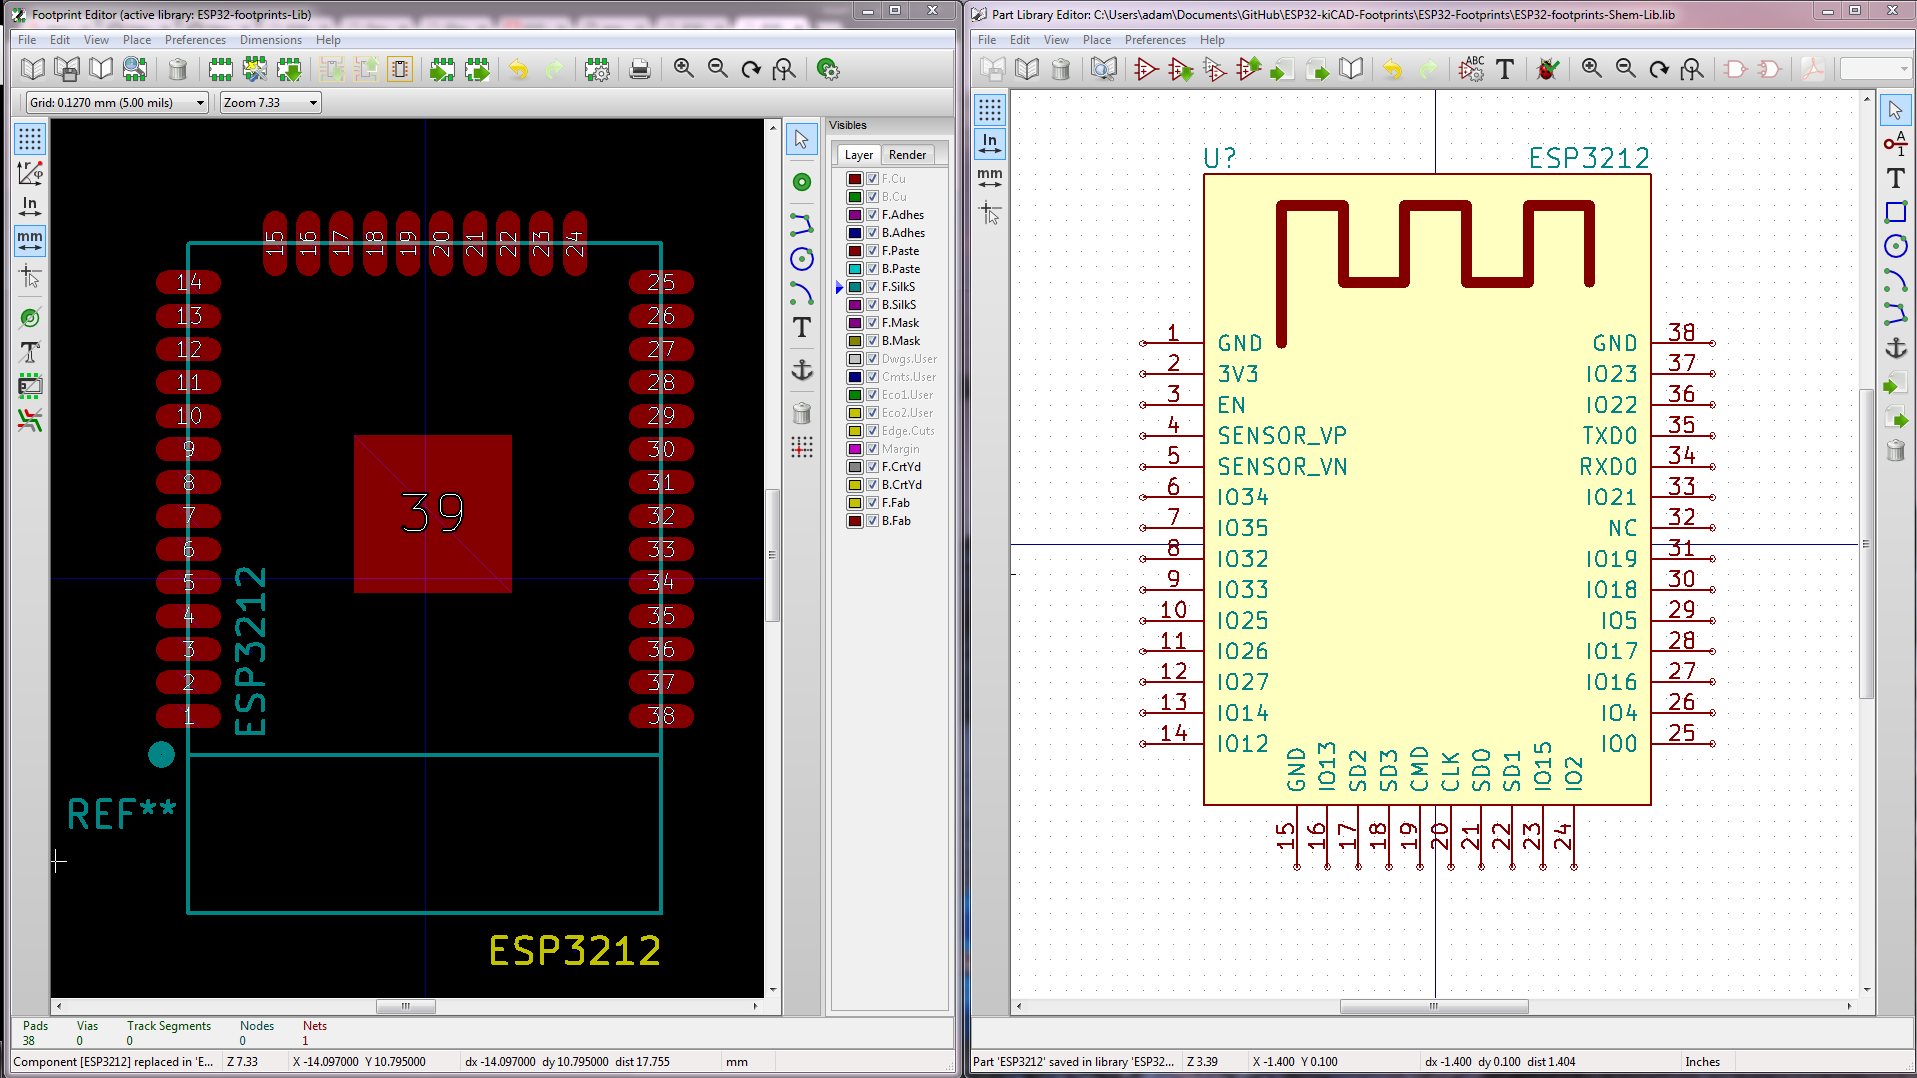
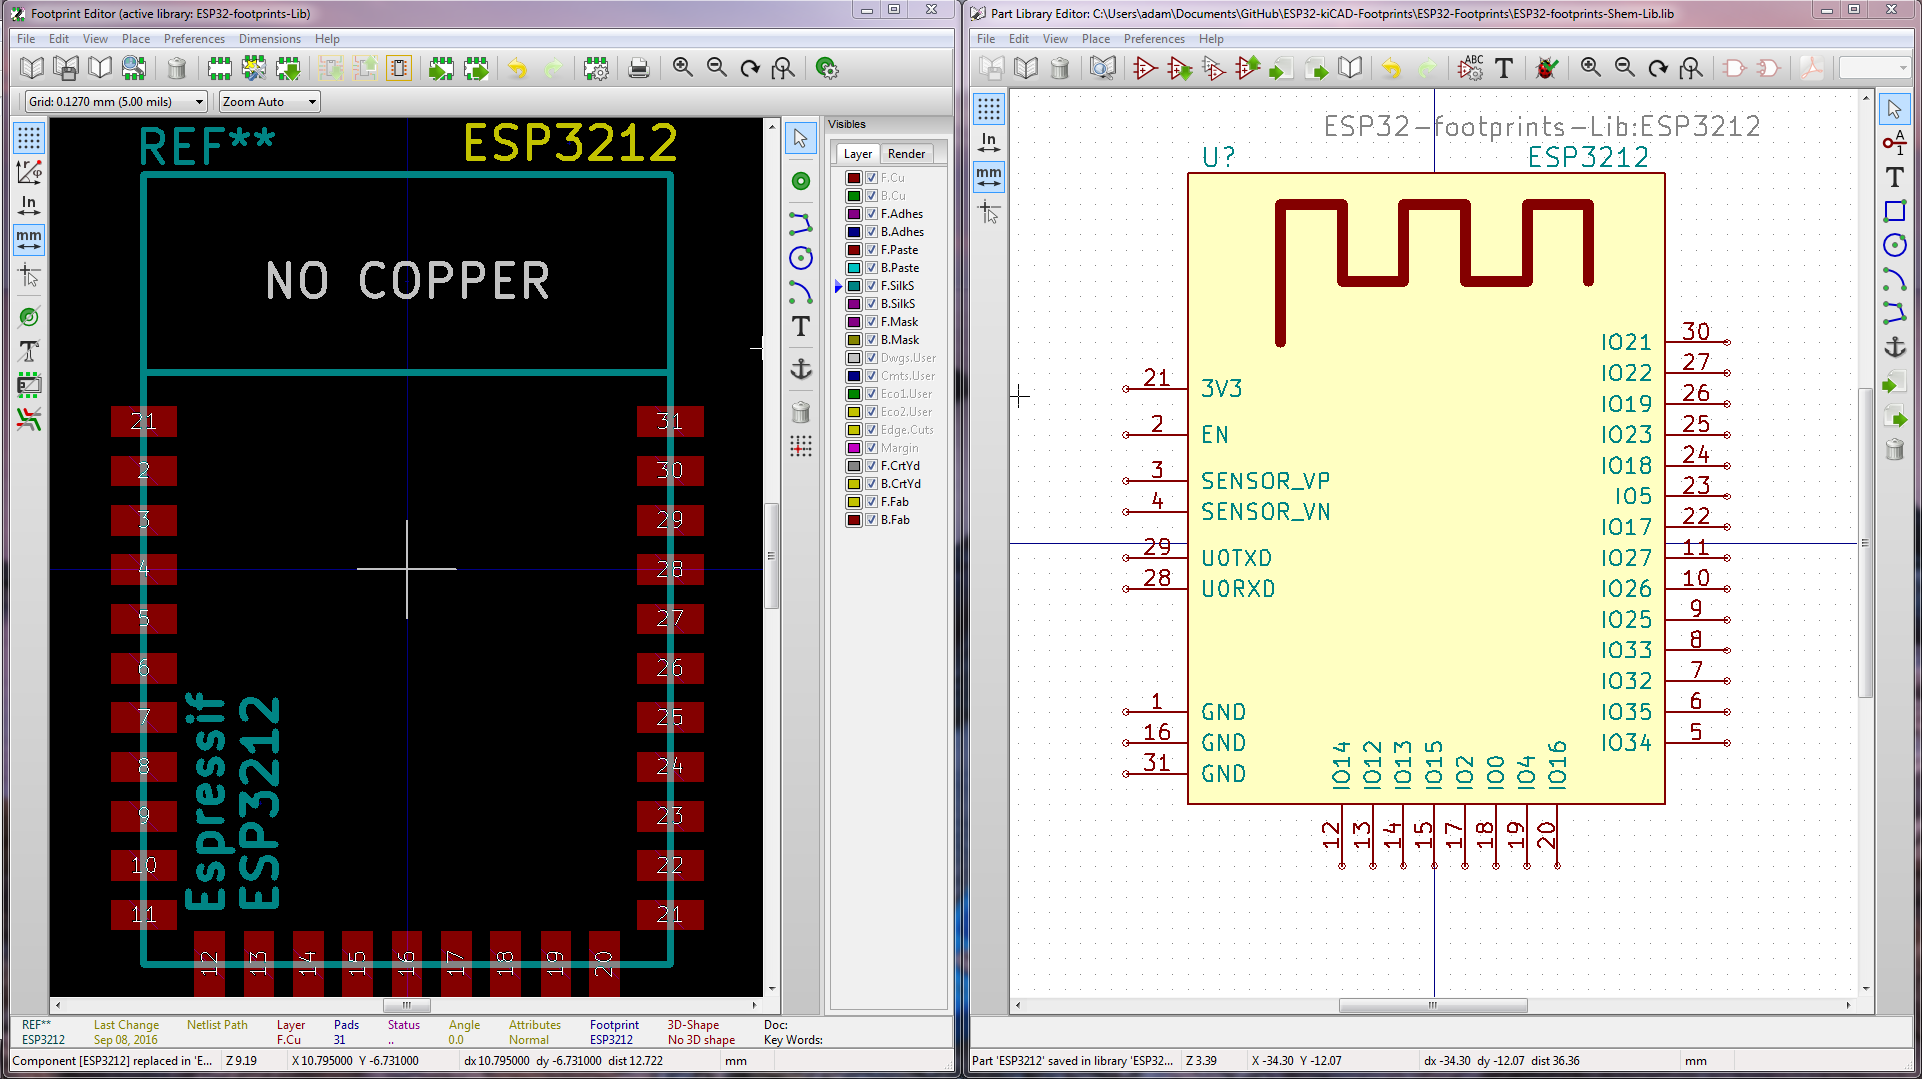
ESP3212
ESP3212 footprint added, symbol updated and paired.

Changed region(s): [[0.0, 0.0, 1.0, 1.0], [0.1847, 0.398, 0.277, 0.551]]

diff --git a/README.md b/README.md
@@ -4,7 +4,7 @@ These footprints are current untested use at your own risk! I'll have a test boa
 soon!
 
 ESP3212 - Module
--- COMING SOON, APPOLOGIES!!
+![ESP3212 - Module](ESP3212_kiCAD.png)
 
 ESP32-WROOM - module
 ![ESP32-WROOM - module](ESP32_WROOM.png)
